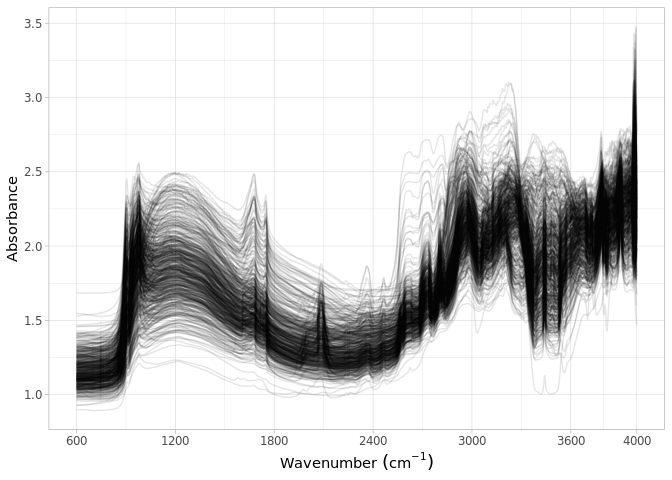
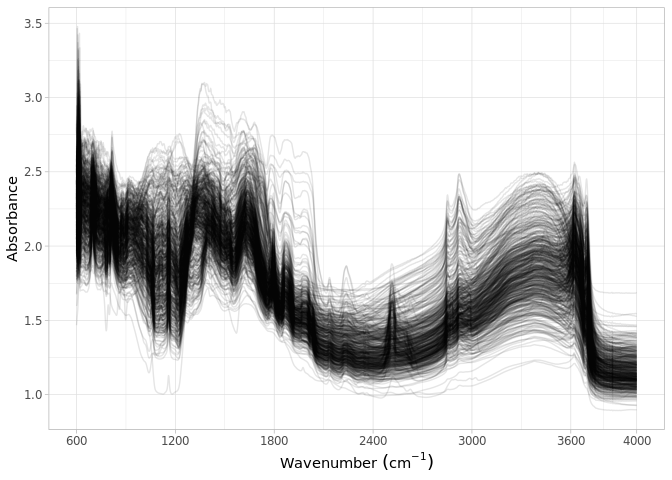
correct x-axiMIR LUCAS

Changed region(s): [[0.0938, 0.0625, 0.9688, 0.8438]]

diff --git a/dataset/LUCAS/README.md b/dataset/LUCAS/README.md
@@ -706,7 +706,7 @@ lucas.mir <- lucas.mir %>%
   filter(!(id.layer_local_c %in% dupli.ids))
 
 # These few scans with extreme values are filled with interpolation
-target.wavenumbers <- rev(seq(600, 4000, by = 2))
+target.wavenumbers <- seq(600, 4000, by = 2)
 
 lucas.mir.clean <- lucas.mir %>%
   pivot_longer(-id.layer_local_c, names_to = "wavenumber", values_to = "absorbance") %>%
@@ -731,7 +731,7 @@ lucas.mir.metadata <- mir.scans %>%
   mutate(id.layer_local_c = paste0("2009.", id.layer_local_c),
          scan.date.begin_iso.8601_yyyy.mm.dd = dmy(scan.date.begin_iso.8601_yyyy.mm.dd)) %>%
   filter(!(id.layer_local_c %in% dupli.ids)) %>%
-  mutate(dataset.code_ascii_c = "WOODWELL.LUCAS.SSL",
+  mutate(dataset.code_ascii_c = "LUCAS.WOODWELL.SSL",
          scan.date.end_iso.8601_yyyy.mm.dd = scan.date.begin_iso.8601_yyyy.mm.dd,
          scan.mir.model.name_utf8_txt = "Bruker Vertex 70 with HTS-XT accessory",
          scan.mir.model.code_any_c = "Bruker_Vertex_70.HTS.XT",
@@ -931,16 +931,16 @@ lucas.visnir %>%
 toc()
 ```
 
-    ## 455.739 sec elapsed
+    ## 451.787 sec elapsed
 
 ``` r
 rm(list = ls())
 gc()
 ```
 
-    ##           used  (Mb) gc trigger   (Mb)  max used   (Mb)
-    ## Ncells 2632851 140.7   26813075 1432.0  41895428 2237.5
-    ## Vcells 9732825  74.3  403815523 3080.9 985877247 7521.7
+    ##           used  (Mb) gc trigger (Mb)  max used   (Mb)
+    ## Ncells 2632847 140.7   26813157 1432  41895557 2237.5
+    ## Vcells 9732825  74.3  403826894 3081 985877247 7521.7
 
 ## References
 
